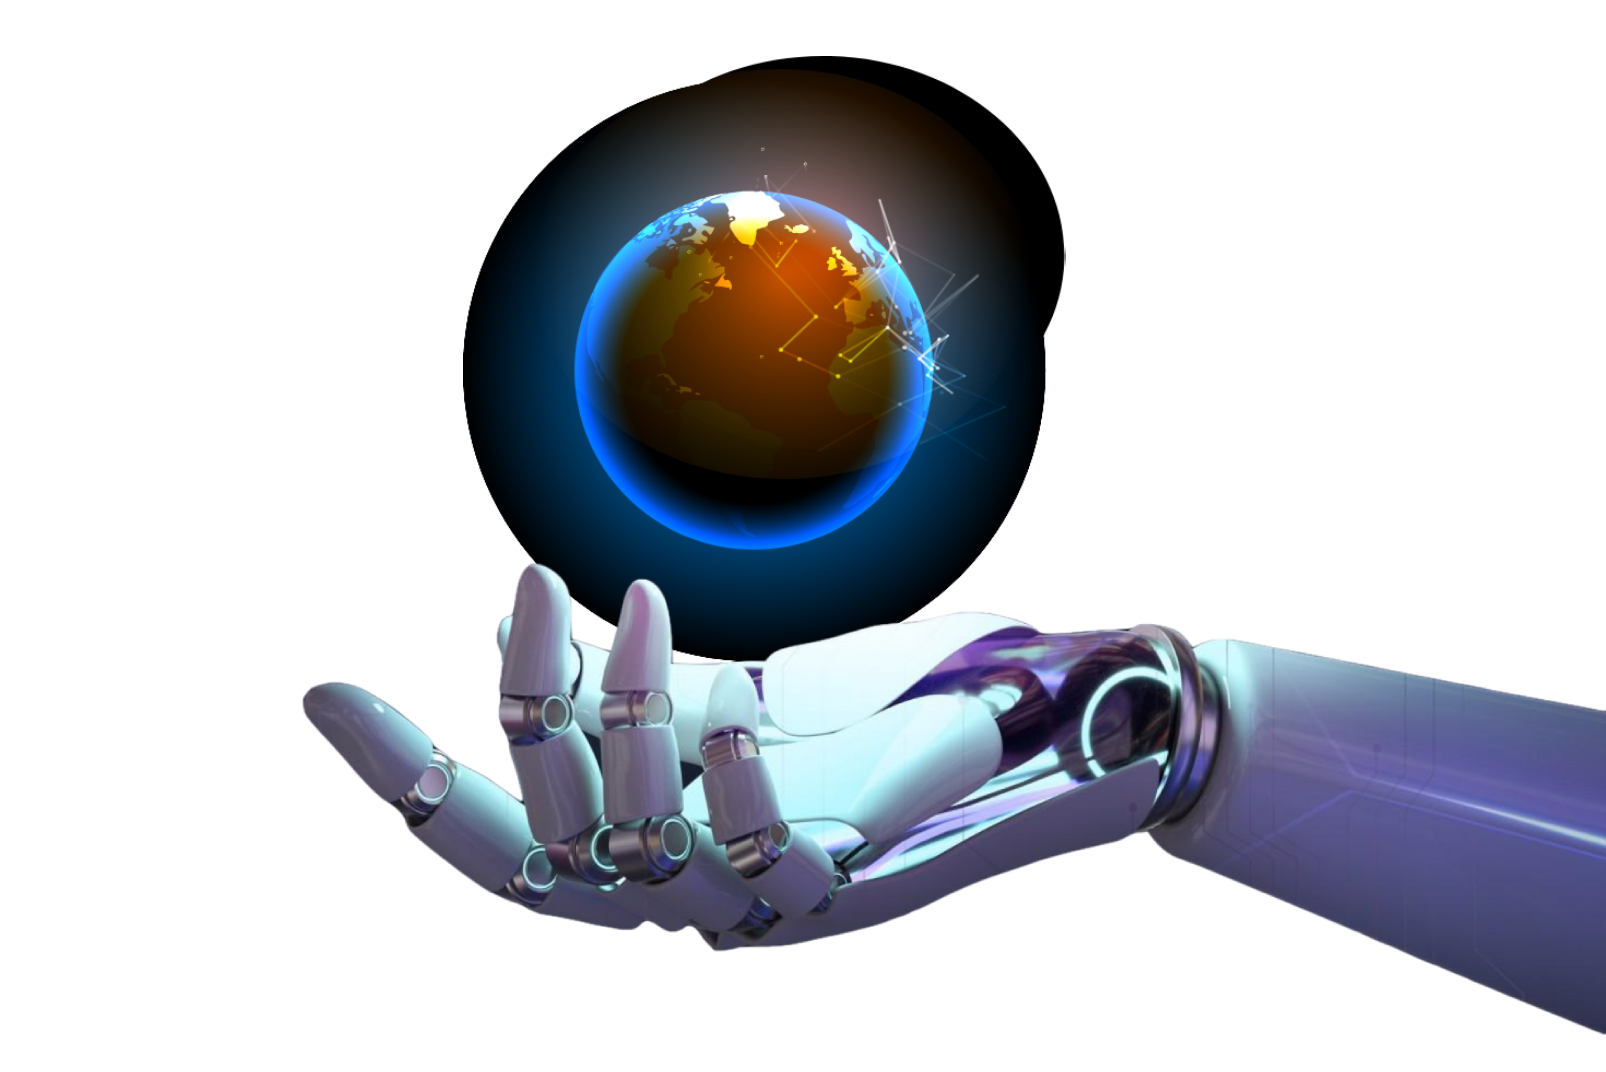
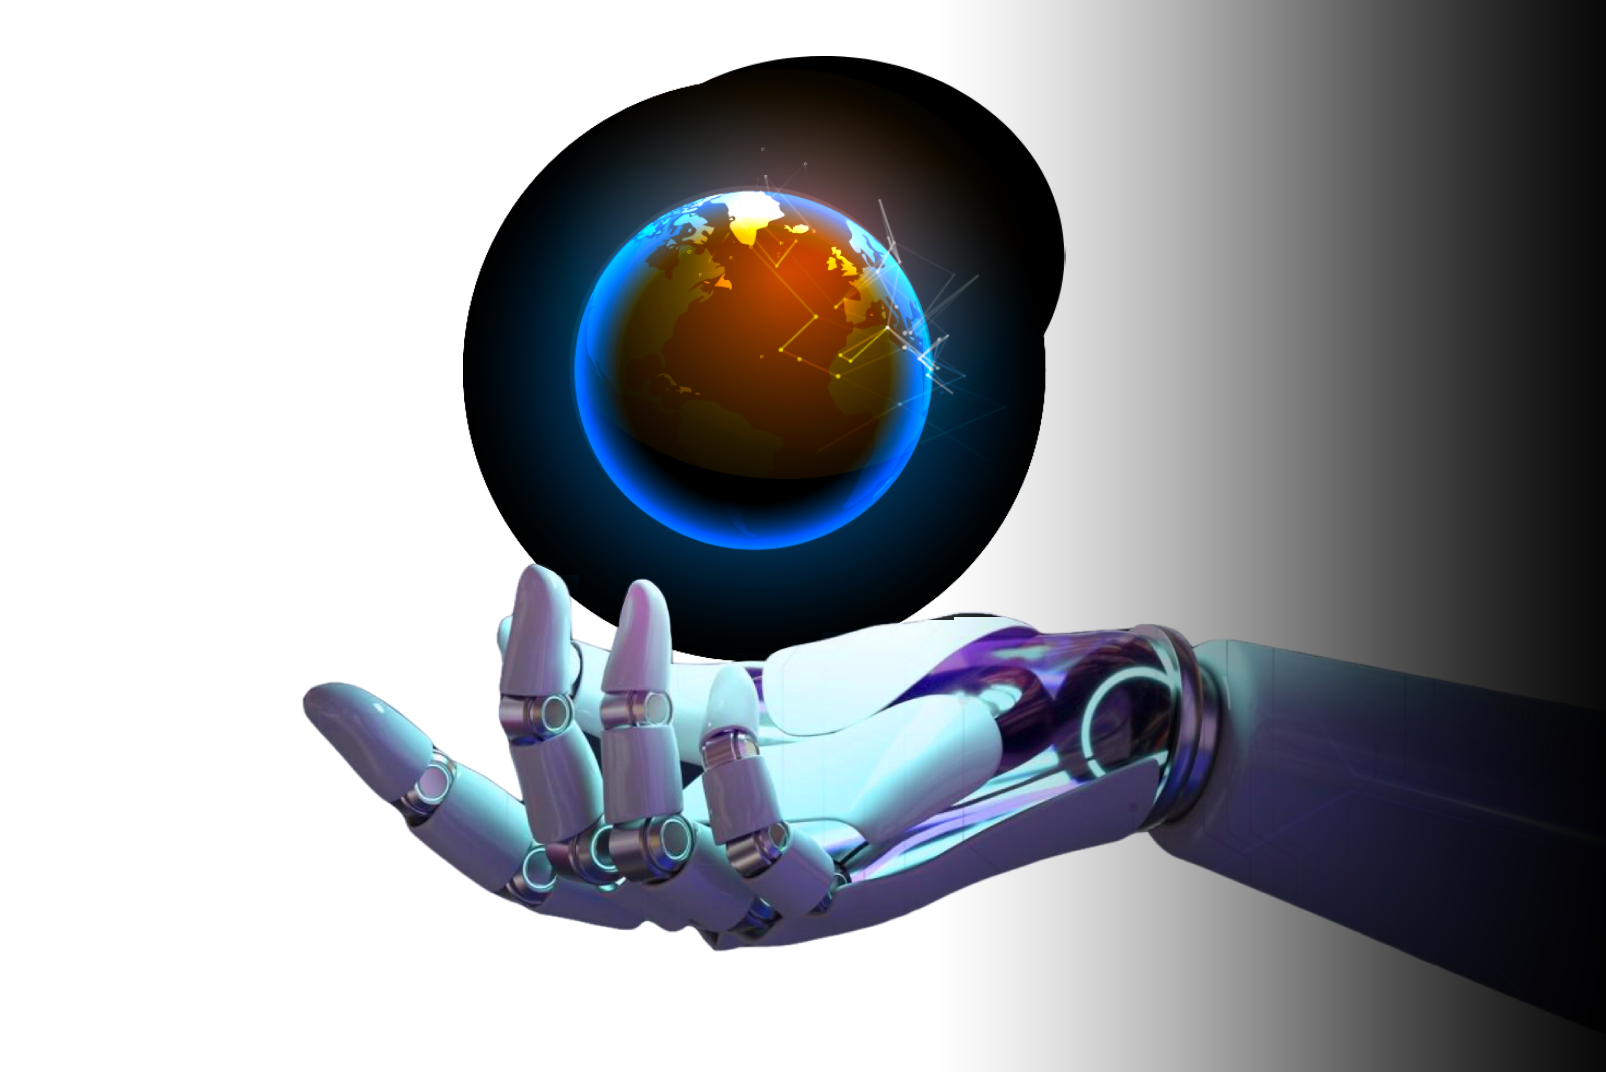
Add flexbox

diff --git a/src/components/Index/Index.jsx b/src/components/Index/Index.jsx
@@ -6,11 +6,12 @@ const Index = () => {
   return (
     <div className='pnine__index--all p-6'>
       {/* <h1 className="text-4xl text-[#f89c92] font-bold tracking-wide">FUTURE.</h1> */}
-        <h1 className='text-3xl font-medium mt-10 mb-6'>The world of technology at your fingertips</h1>
+      <div className='pnine__title--txt'>
+        <h1 className='text-3xl md:text-4xl font-medium mt-10 mb-6 md:mt-20'>The world of technology at your fingertips</h1>
         <p>We believe that technology is an essential tool for innovation and progress, and we are eager to share our knowledge and enthusiasm with our online community.</p>
         <p>Join us and stay up to date on technological news!</p>
-        
-        <div className='p-0 bg-gradient-to-r from-transparent to-blue-500'>
+      </div>  
+        <div className='pnine__img--index'>
           <img src={IMGhome} alt="Bras robotique"/>
         </div>
 

diff --git a/src/index.css b/src/index.css
@@ -26,6 +26,26 @@ body{
 
 
 
+@media only screen and (min-width: 600px) {
+  .pnine__img--index img{
+    width: 70%;
+    margin: auto;
+  }
+}
+
+
+@media only screen and (min-width: 1000px) {
+  .pnine__img--index img{
+    width: 70%;
+    margin: 0;
+    margin-right: 0;
+  }
+  .pnine__index--all{
+    display: flex;
+    justify-content: space-between;
+  }
+}
+
 /* **CSS BURGER BUTTON**
 label{
   display:flex;
